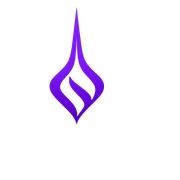
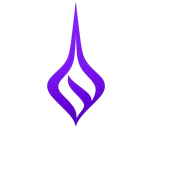
some serided stuff, adding new project root creodin

Changed region(s): [[0.25, 0.0, 0.5833, 0.7222], [0.5, 0.4444, 0.5278, 0.4722], [0.4722, 0.5, 0.5, 0.5278]]

diff --git a/serided/style.css b/serided/style.css
@@ -21,9 +21,8 @@ body {
 body {
     margin: 0;
     min-height: 100vh;
-    display: flex;
-    align-items: center;
-    justify-content: center;
+    display: grid;
+    place-items: center;
     overflow: hidden;
     background:
         radial-gradient(circle at 50% 34%, rgba(124, 58, 237, 0.34) 0%, transparent 22%),
@@ -36,25 +35,23 @@ body {
 .shell {
     width: 100%;
     min-height: 100vh;
-    display: flex;
-    align-items: center;
-    justify-content: center;
+    display: grid;
+    place-items: center;
     padding: 0 20px;
 }
 
 .stack {
-    display: flex;
-    flex-direction: column;
-    align-items: center;
-    justify-content: center;
+    display: grid;
+    justify-items: center;
+    align-content: center;
     gap: 18px;
     width: 100%;
     text-align: center;
 }
 
 .mark {
-    width: min(40vw, 320px);
-    max-width: 320px;
+    width: min(38vw, 300px);
+    max-width: 300px;
     min-width: 180px;
     object-fit: contain;
     filter:
@@ -92,7 +89,7 @@ body {
     }
 
     .mark {
-        width: min(58vw, 250px);
+        width: min(56vw, 240px);
     }
 
     .title {

diff --git a/creodin/index.php b/creodin/index.php
@@ -1,0 +1,3 @@
+<?php
+?>
+ig we will see
